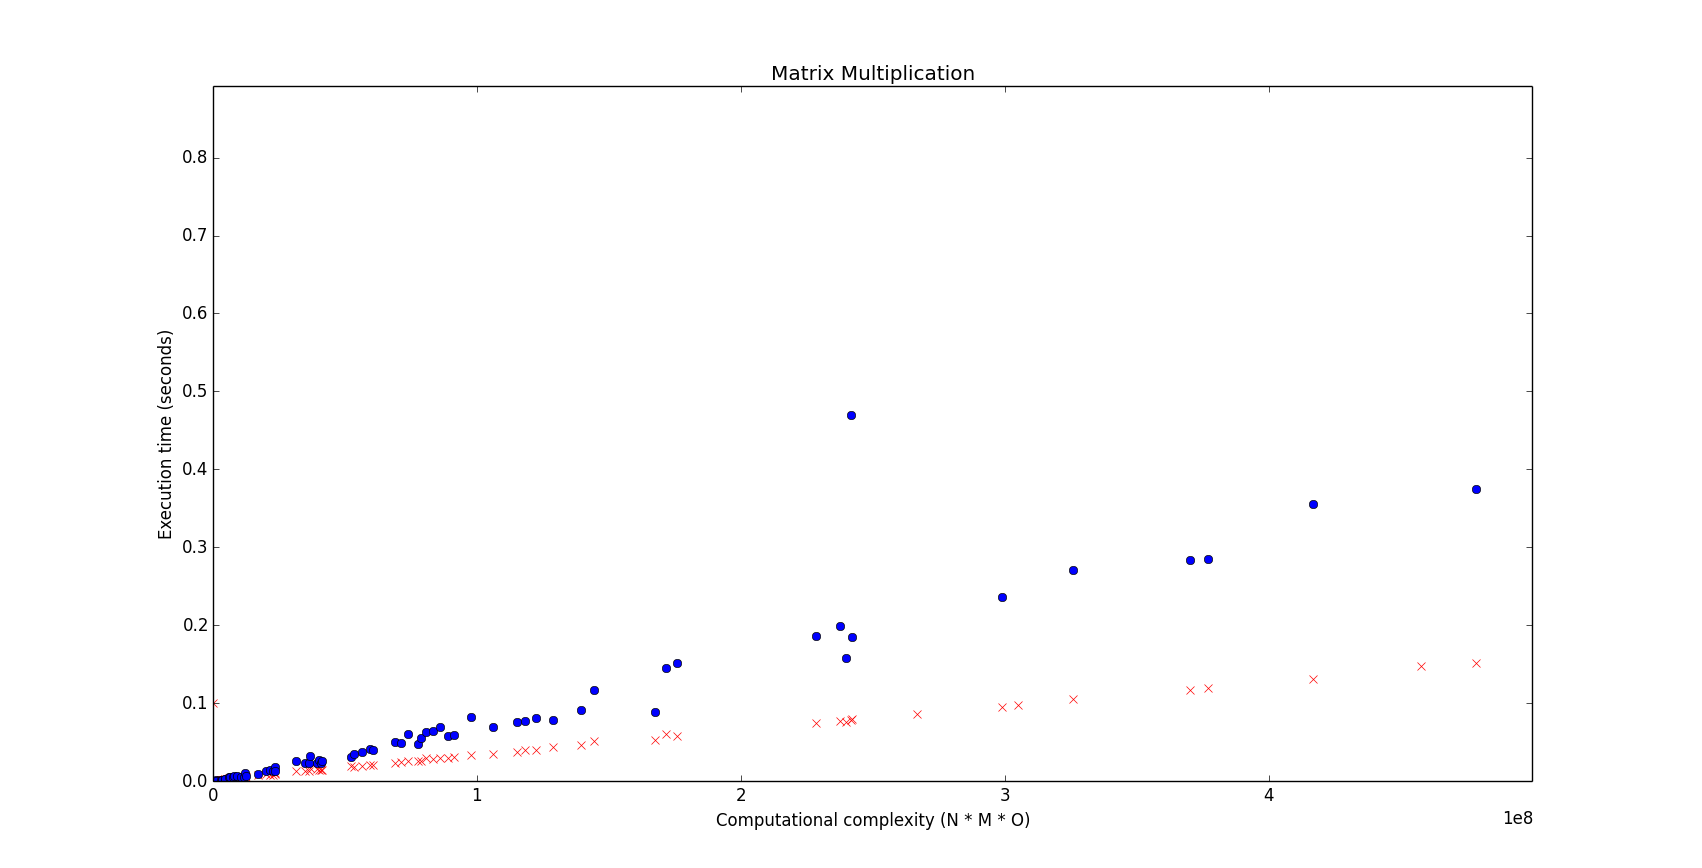
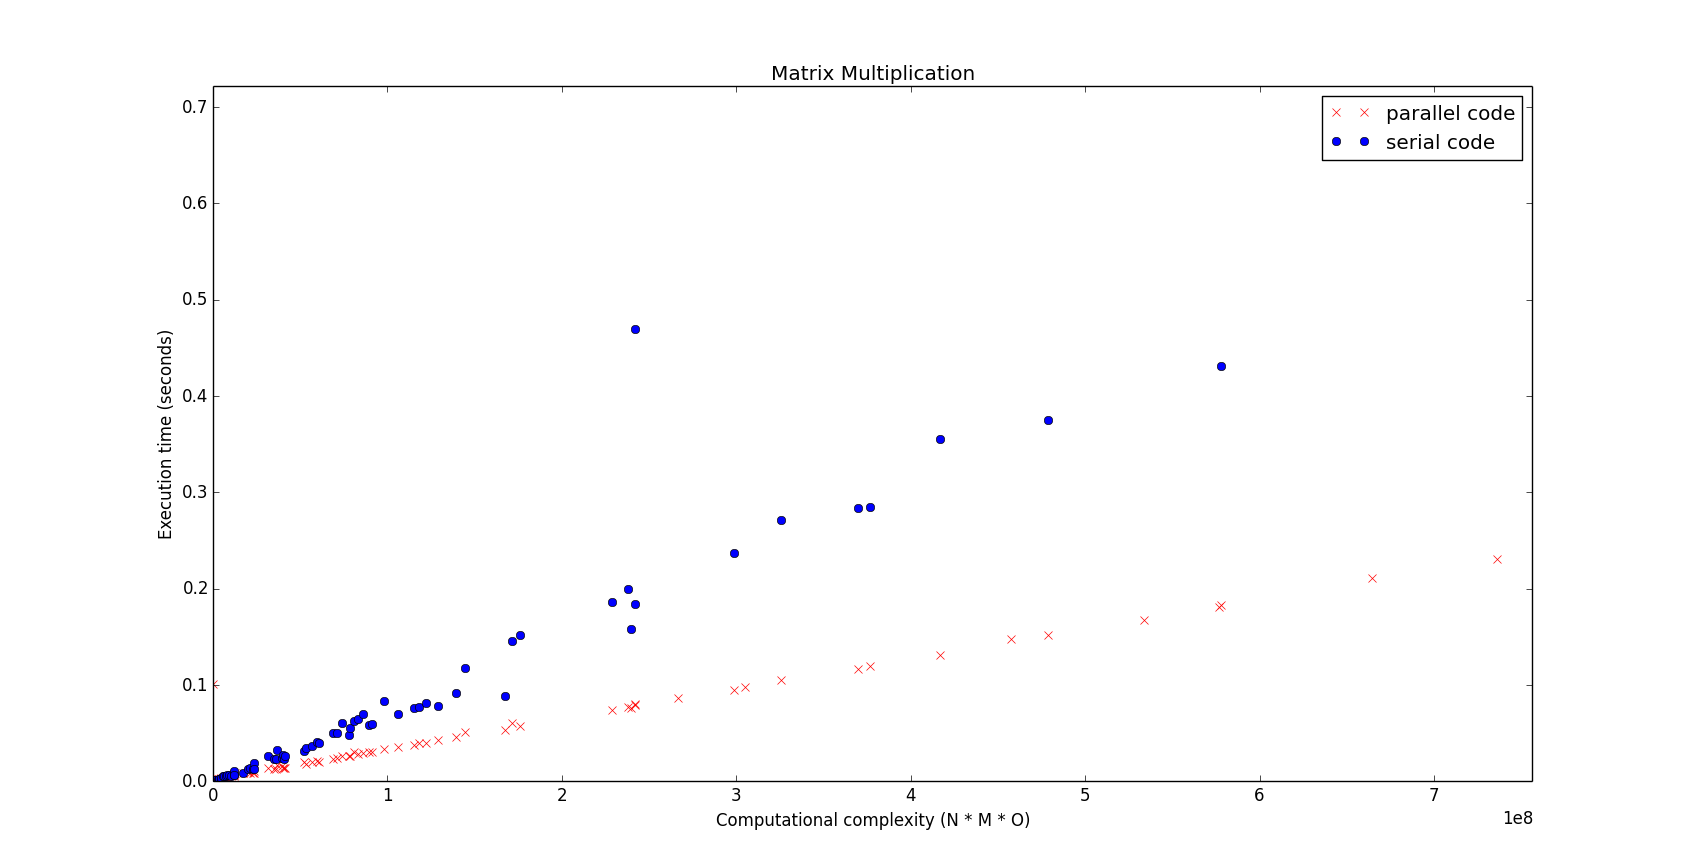
Added label

diff --git a/matrix_mult/plotter.py b/matrix_mult/plotter.py
@@ -14,8 +14,10 @@ plt.title  ('Matrix Multiplication')
 plt.xlabel ('Computational complexity (N * M * O)')
 plt.ylabel ('Execution time (seconds)')
 
-plt.plot(x, y1, 'rx')
-plt.plot(x, y2, 'bo')
+plt.plot(x, y1, 'rx', label='parallel code')
+plt.plot(x, y2, 'bo', label='serial code')
+
+plt.legend()
 
 plt.hold()
 plt.show()
